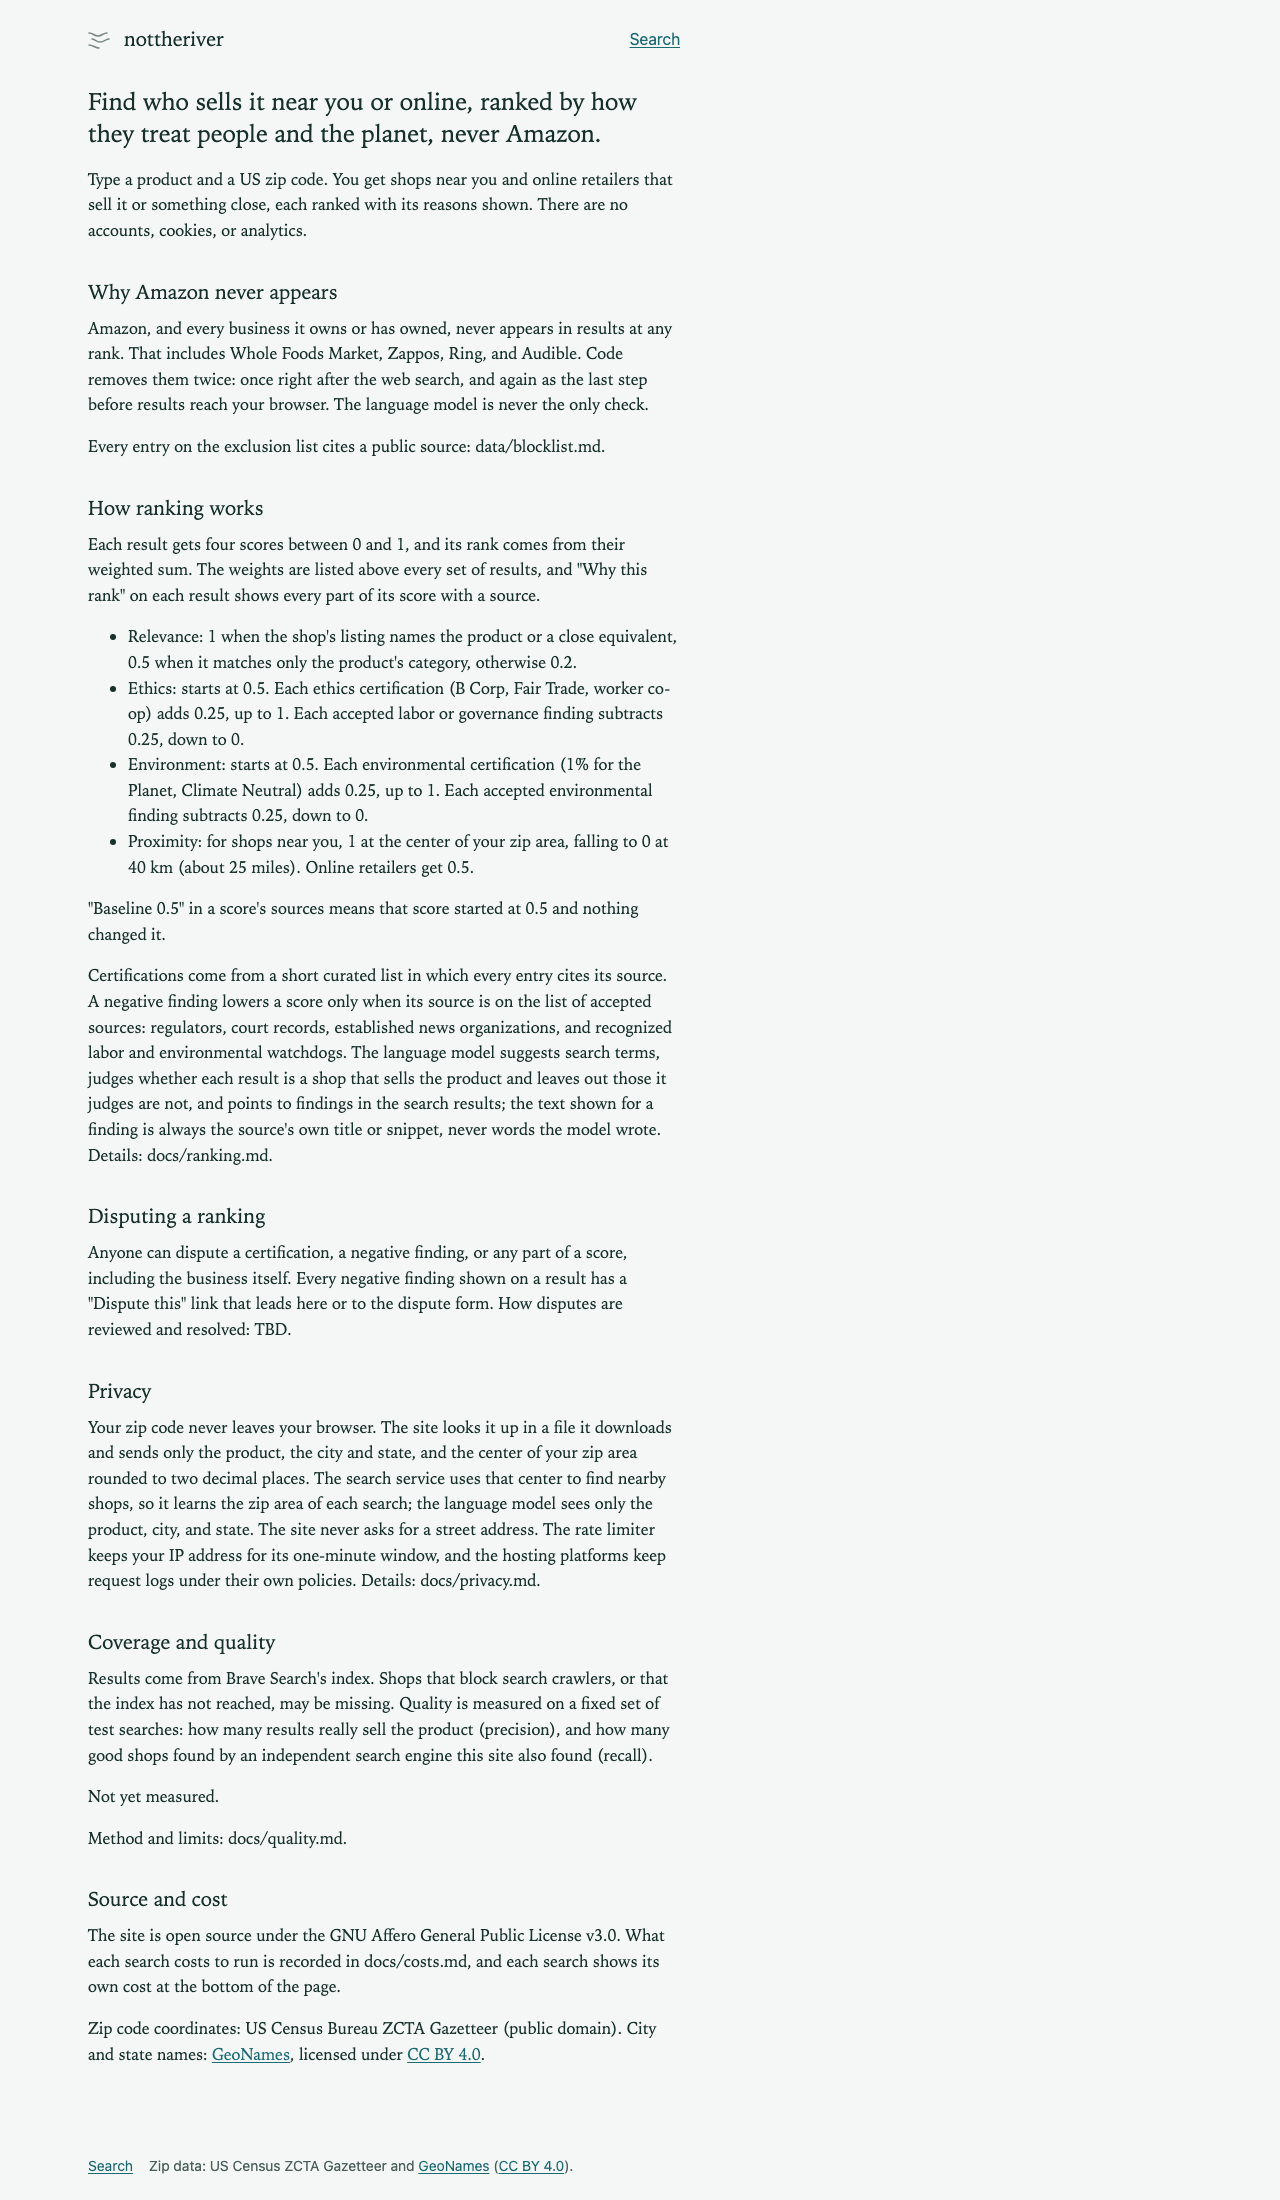
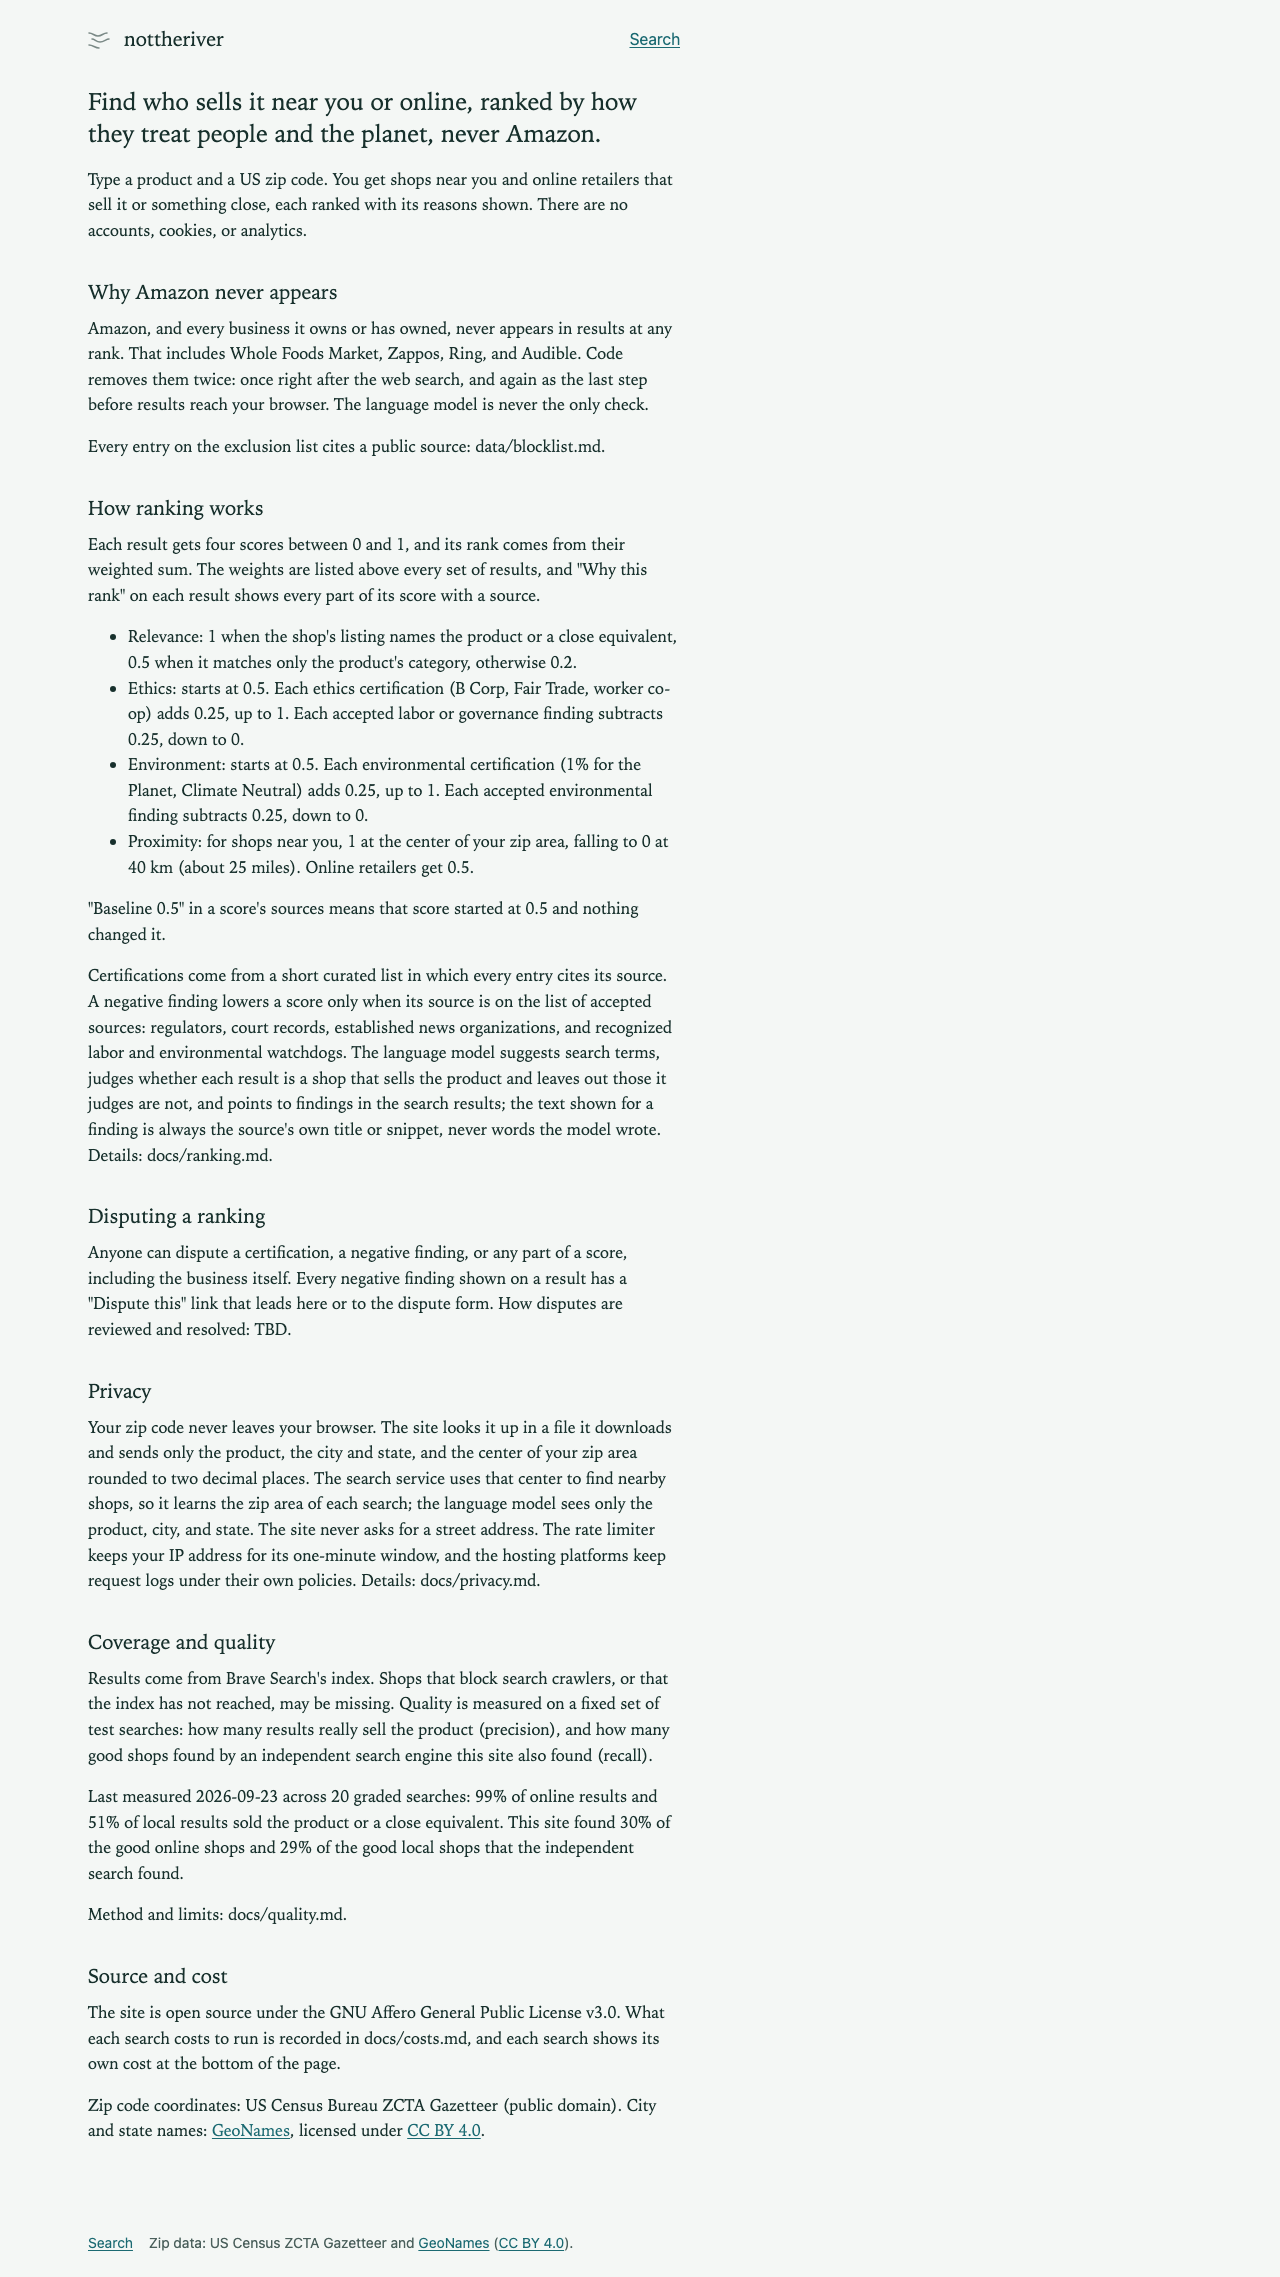
docs: publish measured search quality
Local precision 51% and recall 29%, online precision 99% and recall 30%,
on a graded sample of 20 of the 60 evaluation searches. The stronger
classifier experiment is recorded and held for a decision.

Claude-Session: https://claude.ai/code/session_01B4KcTXaMeePDhRGcdgbBh5

Changed region(s): [[0.0625, 0.0309, 0.5312, 0.9582], [0.5, 0.0, 0.5312, 0.0309]]

diff --git a/docs/quality.md b/docs/quality.md
@@ -1,41 +1,67 @@
 # Search quality
 
-Status: **not yet measured.** Every number on this page will come from `docs/evidence/quality/report.json`, produced by `eval/summarize.mjs` from the saved responses and grades in the same folder. The About page shows the headline numbers from `src/quality.json`, or "Not yet measured."
-
-## What is measured
-
-| Measure | Question it answers |
-|---|---|
-| Precision, online and local | Of the shops returned, how many sell the product or a close equivalent (local: and exist at the listed address)? |
-| Local precision by area | Does it hold up in suburban and rural zips, not only city centers? |
-| Recall | Of the good shops an independent search found, how many did the site return? |
-| Miss reasons | For each shop the site missed: not in Brave's index, weak snippet, ranked too low, filtered, or other |
-| Bot access | How often retailer sites refuse or challenge an honestly identified bot, compared with what a person sees |
-| Cost | Brave calls, LLM tokens and estimated spend for the evaluation run |
-
-## Method
-
-60 searches: 20 products in 8 categories, each in an urban, a suburban and a rural zip across 10 states. Zip kinds follow a fixed rule based on USDA RUCA codes. Every result is opened in a real browser and graded by hand; recall is measured against shops found by a separate search engine and confirmed in a browser. A throwaway probe fetches one page per retailer domain as a declared bot that obeys robots.txt. Full procedure, zip list and field definitions: [`eval/README.md`](../eval/README.md). Why the bot never pretends to be a person, and what could improve coverage: [ADR 0005](decisions/0005-site-access-and-mitigation.md).
+Graded 2026-09-23 (US Pacific time; baseline top-up and access probe finished 2026-09-24) on a sample of 20 of the 60 evaluation searches. The results table comes from [`evidence/quality/eval60/report.json`](evidence/quality/eval60/report.json), produced by `eval/summarize.mjs` from the saved responses and grades in the same folder; the other tables cite their own evidence files. The About page shows the headline from `src/quality.json`.
 
 ## Results
 
-Not yet measured.
-
 | Measure | Online | Local |
 |---|---|---|
-| Precision | not yet measured | not yet measured |
-| Recall | not yet measured | not yet measured |
-| Bot blocked rate | not yet measured | not yet measured |
-| Results with an unsupported badge source | not yet measured | not yet measured |
-| Local distance implausible | n/a | not yet measured |
+| Precision (sells the product; local: and the shop exists) | 99% (189 of 191) | 51% (72 of 140; 45 not judgeable, left out) |
+| Recall against a separately built baseline | 30% (30 of 100) | 29% (25 of 86) |
+| Bot blocked rate (probe, one page per domain) | 16% (27 of 169 domains) | 14% (49 of 353 domains) |
+| Results with an unsupported badge source | 0 of 7 with badges | 0 of 6 with badges |
+| Local distance implausible | n/a | 2 of 185 |
 
-Evaluation cost: not yet measured.
+Local precision by area: urban 48% (23 of 48), suburban 53% (30 of 57), rural 54% (19 of 35).
+
+Local recall by kind of shop: independents 17% (4 of 23), chains 33% (21 of 63). A chain here is a brand with 10 or more US stores under one name; Ace Hardware dealers count as Ace. The labels are this report's judgment, one per baseline shop.
+
+Evaluation cost: the 60 searches made 240 Brave calls and used 313,981 model tokens, an estimated $1.25 in total.
+
+## What changed, on the six pilot searches
+
+The same six searches (cast iron skillet and camping tent, each in an urban, suburban and rural zip) were run before and after each fix. Grades for a URL graded in an earlier run were reused.
+
+| Run | Online precision | Local precision | Online recall | Local recall |
+|---|---|---|---|---|
+| Before fixes ([report](evidence/quality/report.json)) | 13% (8 of 60) | 34% (16 of 47) | 1 of 30 | 6 of 23 |
+| Retailer filtering ([after](evidence/quality/after/report.json)) | 100% (57 of 57) | 47% (18 of 38) | 15 of 30 | 6 of 23 |
+| Local results fix ([after3](evidence/quality/after3/report.json)) | 100% (55 of 55) | 38% (17 of 45) | 15 of 30 | 6 of 23 |
+| Store-type filter (this run, pilot subset) | 100% (56 of 56) | 53% (18 of 34; 13 left out) | 15 of 30 | 6 of 23 |
+
+Online results went from mostly review articles to shops. Local precision moves around a lot between runs because each run has about 40 local rows, so a few rows swing it by 10 points.
+
+The probe covered every retailer domain in all 60 searches (566 domains; 44 fetch errors are left out of the rate). On the 234 pages both the probe and a grader opened, the grader saw every one, while 39 turned the declared bot away (36 refused or challenged it, 3 disallowed it in robots.txt). Graders recorded only whether a page opened, not whether it blocked them, so this compares the bot with a person who got through. A site that fetched retailer pages to check stock would lose about one retailer in six ([probe.json](evidence/quality/eval60/probe.json)).
+
+## Why good shops were missed
+
+| Reason | Online | Local |
+|---|---|---|
+| Brave has a matching page but it was not in the top 10 for the site's queries (a `site:` query found one) | 48 | not checked |
+| Returned but ranked below the top 10 or cut by the 2-branch cap | 2 | 3 |
+| Never returned by the site's Brave queries (online: not checked, Brave call budget) | 20 | 58 |
+
+All 48 online misses checked with a Brave `site:` query had a matching page in Brave's index (hit counts in [misses.json](evidence/quality/eval60/misses.json)), so online recall is limited by what the site's two online queries return, not by the index. Local misses were never among Brave's place results for the site's two local queries; whether Brave's place index holds them was not checked.
+
+## Experiments that did not ship
+
+| Idea | Result | Evidence |
+|---|---|---|
+| Add OpenStreetMap shops and Brave web results to the local candidates | No gain in precision: 44.7 to 45.5% in every combination against 47.4% for production. Adding web results raised recall matched by domain (10 of 23 against 6), but those hits were national category pages or other branches; counting only the exact store, every combination found 4 or 5 of 23. Decided not to build an OSM index | [merge-test/score.md](evidence/quality/merge-test/score.md) |
+| A stronger classifier model (Gemini 2.5 Flash) with one added prompt paragraph about map listings | Held for a decision. It passed a rule fixed before the test, on the merge-test searches: local precision 62.5% against 49.4%, the same share of good local shops kept, the same result on two runs, $0.0037 more per search. On the 20-search sample it would also drop 12 of 72 good local shops (3 of them small independents: a kitchen shop and two tea shops; the rest chains such as REI for a rain jacket) and 3 of 189 good online shops, while dropping 32 bad local ones. Not in the code and not deployed | [classifier-test/README.md](evidence/quality/classifier-test/README.md) |
+
+## Method
+
+60 searches: 20 products in 8 categories, each in an urban, a suburban and a rural zip across 10 states ([`eval/README.md`](../eval/README.md) has the zip rule and field definitions). All 60 were run on 2026-09-24 (UTC) against the deployed Worker, with the store-type filter live. A stratified sample of 20 was graded: the 6 pilot searches plus 14 others covering every category, balanced across zip kinds (7 urban, 7 suburban, 6 rural). The sample was chosen from the query list before any result was looked at.
+
+Each result was opened and graded by an AI agent working from the grading rules. Pages were first fetched directly; of the 279 results with no earlier grade, the 110 whose pages blocked fetching or needed JavaScript were graded in a real Chrome browser. Results graded in an earlier pilot run were reused. The recall baseline was built by separate agents that never saw the site's results: up to 5 local and 5 online shops per search found with a different search engine, each confirmed on its own page, with fetch-blocked chains confirmed in Chrome. Pilot baselines are the ones from the earlier pilot runs.
 
 ## Limitations
 
-- **Small sample.** 60 searches in 10 states cannot represent every product or place; treat the numbers as a rough level, not a precise rate.
-- **Human judgment.** Grades are one grader's call at one point in time; there is no second grader to check agreement, and shop inventory changes.
-- **Recall is relative.** The baseline is what another search engine found (up to 5 shops per section), so recall measures the site against that engine, not against every shop that exists.
-- **The probe is a proxy.** It runs from Cloudflare's network and names itself, while Brave's crawler follows Googlebot's permissions and does not name itself, so the probe's blocked rate approximates what Brave meets rather than measuring it. Its challenge detection is a heuristic, scored against the browser pass.
-- **One browser, one connection.** Sites can answer differently by location or network; the browser pass is one person's view.
+- **Small sample.** 20 graded searches (376 results) cannot represent every product or place; treat the numbers as a rough level.
+- **AI graders, one pass.** Grades are one agent's judgment at one time, with no second grader to check agreement. Online precision of 99% was spot-checked: a second agent regraded 15 online rows drawn with a seeded shuffle without seeing the first grades and judged all 15 relevant (14 yes, 1 close equivalent) ([spotcheck](evidence/quality/eval60/spotcheck/)).
+- **Many local rows could not be judged.** 45 of 185 local rows had an unknown answer (a store page that lists no products, a dead site with a live map listing) and are left out of precision.
+- **Mixed grading method.** Fetch and browser grading can see different pages. The browser was signed in to the operator's accounts: 4 Facebook pages were read logged in, and Walmart showed no bot check, possibly because of that.
+- **Recall is relative.** The baseline is what another search engine found, up to 5 shops per section. One search (loose-leaf green tea, rural Illinois) has no confirmed local shop.
+- **The probe is a proxy.** It runs from Cloudflare's network and names itself, while Brave's crawler does not, so its blocked rate approximates what Brave meets. Its challenge detection is a heuristic.
 - **Unknowns are left out.** Results the grader could not judge are excluded from precision and reported as a count.

diff --git a/docs/STATUS.md b/docs/STATUS.md
@@ -1,6 +1,6 @@
 # Status
 
-As of 2026-09-23. Pushed to `main`; CI and Pages green; the Worker is deployed and a live search from the Pages site works.
+As of 2026-09-24. Pushed to `main`; the Worker is deployed with the store-type filter, and the quality evaluation is measured on a 20-search sample ([quality.md](quality.md)).
 
 ## Done
 
@@ -15,7 +15,8 @@ As of 2026-09-23. Pushed to `main`; CI and Pages green; the Worker is deployed a
 | End-to-end | Playwright smoke test against a mock proxy running the real handler and pipeline on fixtures; screenshots in `docs/evidence/` |
 | Infrastructure | OpenTofu config for the Worker, its secrets and rate limits; `infra/plan-evidence.sh` for a redacted plan |
 | CI | `ci.yml` (tests, lint, full-history gitleaks, bundle secret scan, e2e) and `pages.yml` (build, scan, deploy) |
-| Quality evaluation | Harness, 60-search query set, grade schema, access probe, [quality.md](quality.md) skeleton, [ADR 0005](decisions/0005-site-access-and-mitigation.md) |
+| Quality evaluation | Harness, 60-search query set, grade schema, access probe, [ADR 0005](decisions/0005-site-access-and-mitigation.md); all 60 searches run, 20 graded with a recall baseline and miss reasons, access probe run and deleted ([check](evidence/quality/eval60/probe-deleted.txt)), [quality.md](quality.md) and the About page headline |
+| Local store-type filter | Brave's undocumented `icon_category` becomes the local snippet; restaurants and amusement parks are dropped as `place_category` ([ranking.md](ranking.md)) |
 | Docs | [architecture](architecture.md), [privacy](privacy.md), [ranking](ranking.md), [costs](costs.md), [debt](debt.md), ADRs [0001](decisions/0001-external-services.md) to [0004](decisions/0004-down-ranking.md) |
 
 ## In flight
@@ -26,7 +27,6 @@ As of 2026-09-23. Pushed to `main`; CI and Pages green; the Worker is deployed a
 
 | Gate | What it unblocks |
 |---|---|
-| Live quality evaluation: run the 60 searches, grade in a browser, deploy, run and delete the access probe, write the report and `src/quality.json` | The numbers in [quality.md](quality.md) and on the About page |
 | OpenRouter account privacy settings ([privacy.md](privacy.md#openrouter-settings-operator-action-not-verified)) | Not verified by this project |
 
 ## Deploy (2026-09-23)
@@ -45,6 +45,8 @@ As of 2026-09-23. Pushed to `main`; CI and Pages green; the Worker is deployed a
 
 ## Decisions needed
 
+- Whether to ship the stronger local classifier (Gemini 2.5 Flash plus one prompt paragraph): 13 points more local precision on the merge-test searches (11 on the graded sample), but on the graded sample it also drops 12 of 72 good local shops, 3 of them small independents ([quality.md](quality.md#experiments-that-did-not-ship)).
+- Whether local recall should favor independents: the site finds 17% of independent baseline shops against 33% of chain stores.
 - How disputes are reviewed and resolved (the About page and [ranking.md](ranking.md) say TBD).
 - Whether `independent_retailer_assoc` membership or positive signals should ever affect the score.
 - Whether to add labor or environmental watchdogs to the negative-source registry.
